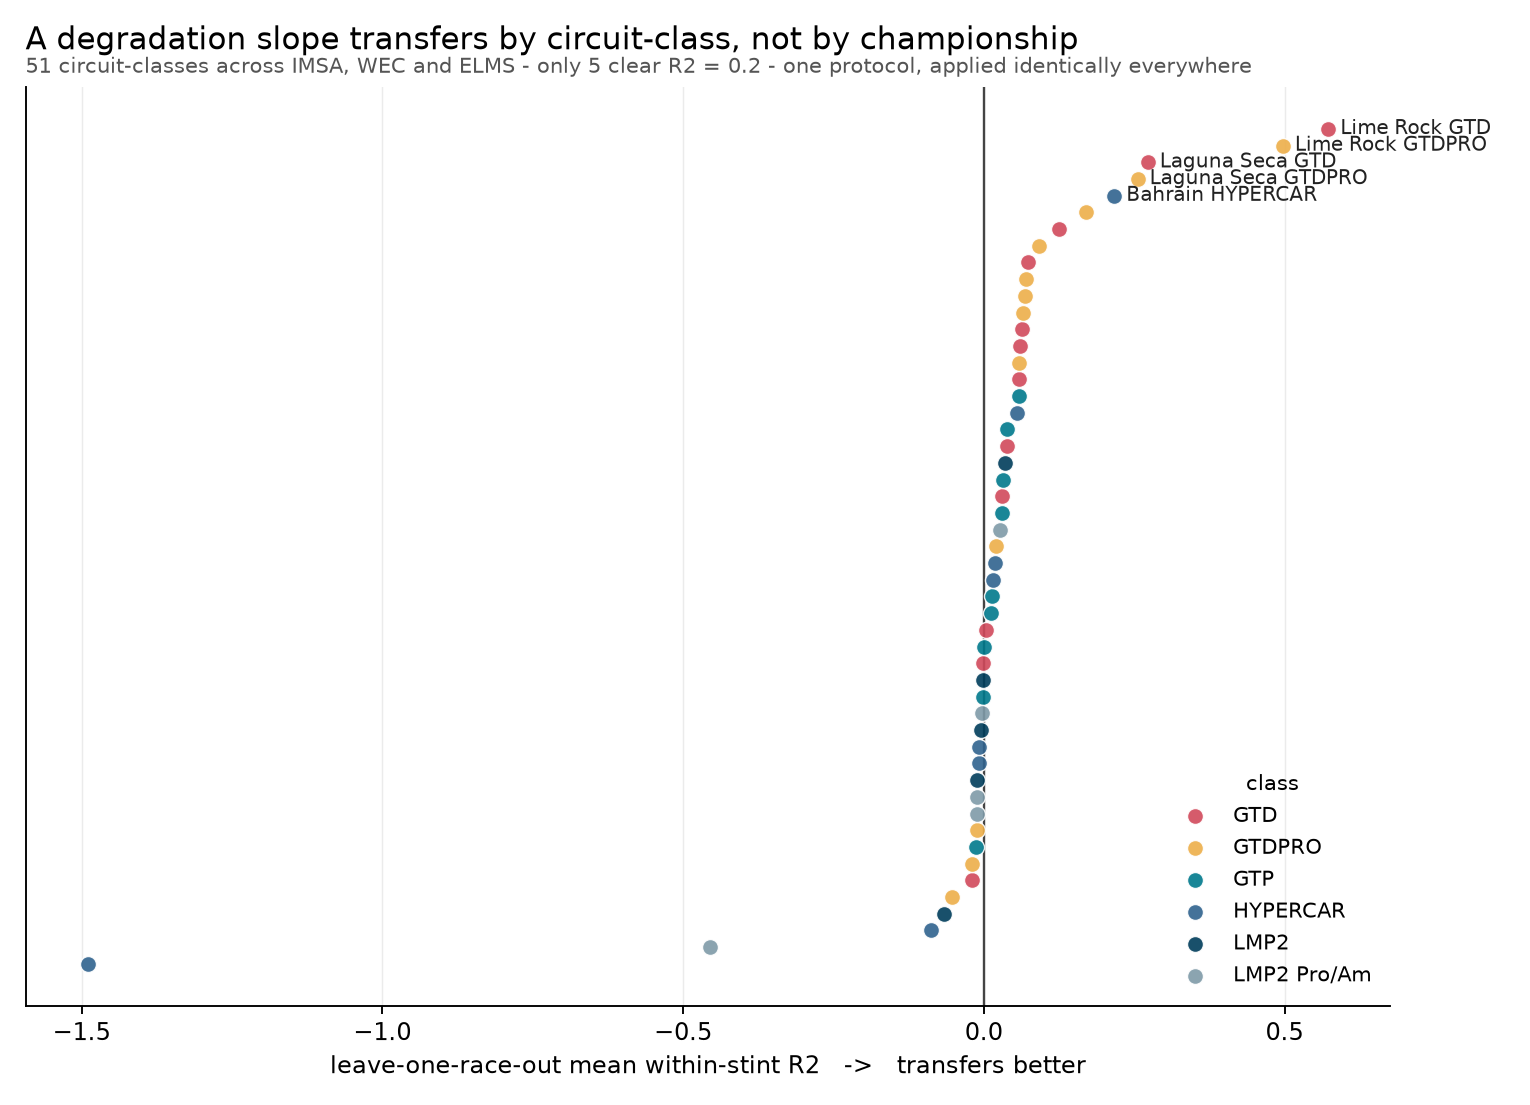
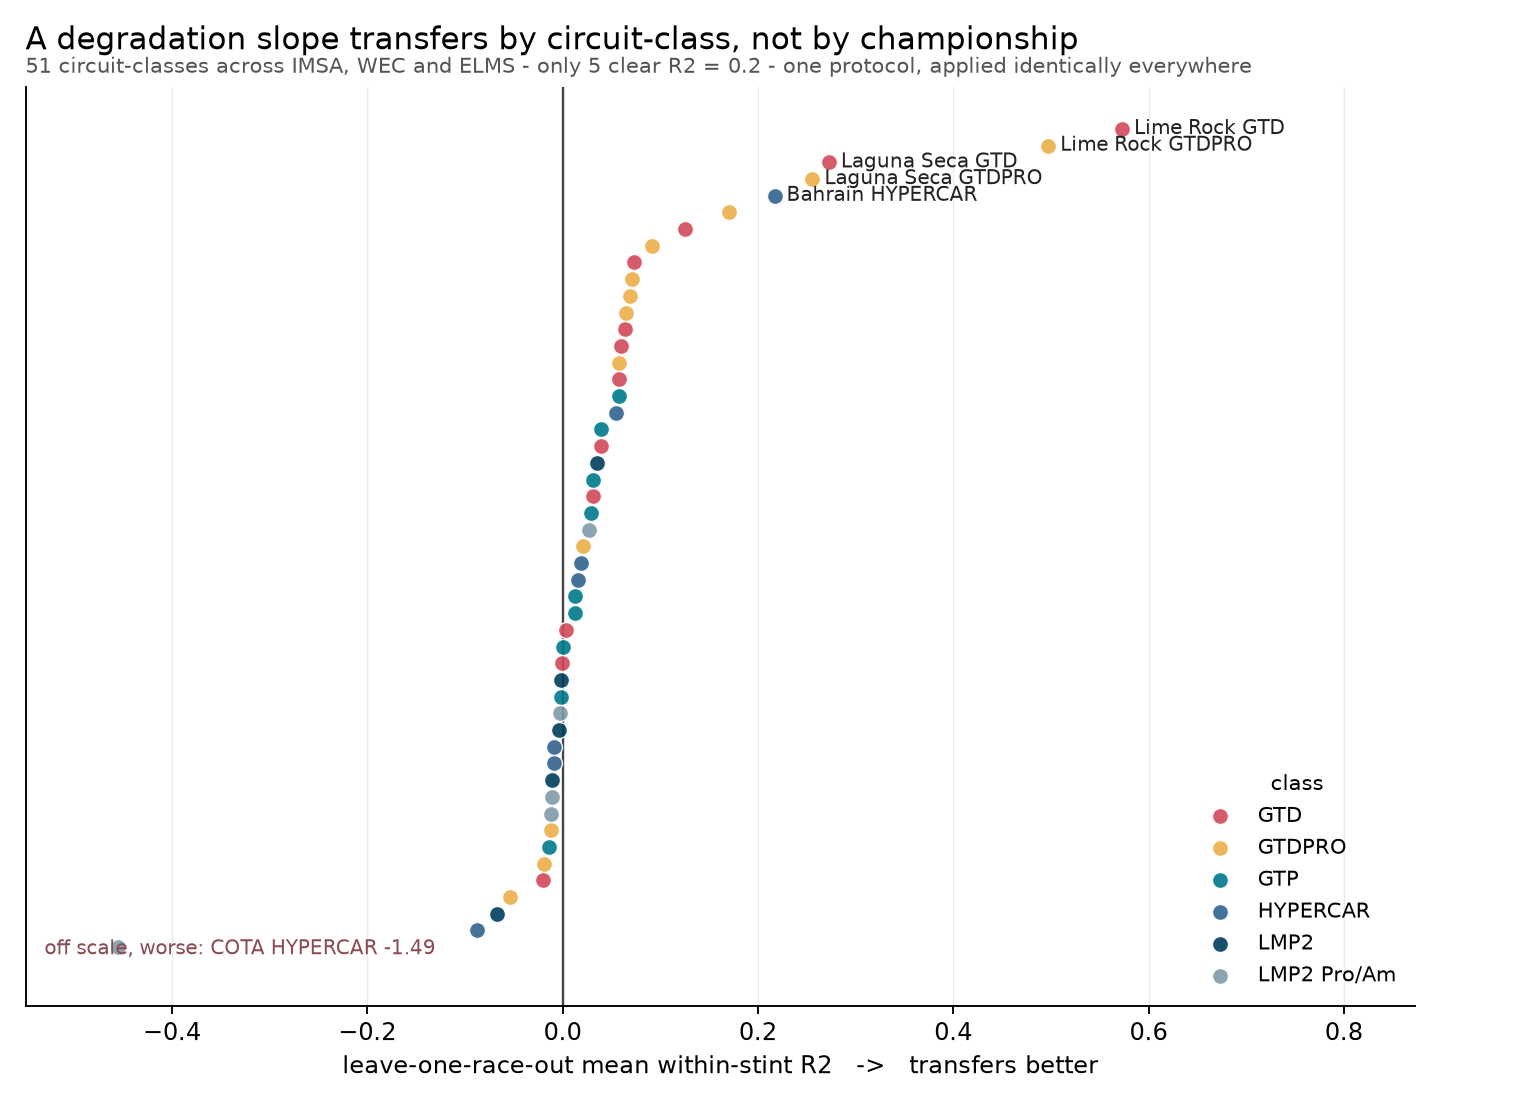
fix(figures): make the two headline figures readable as distributions
R3 drew 632 IMSA decisions as points at one height, so the eye read the extent
and not the density -- a solid bar that said nothing about where the mass sits.
Now a box for the quartiles over a seeded jittered cloud for the sample and the
tail, and the asymmetry the figure exists to show is visible: IMSA and F1 have
their whole interquartile range to the right of zero, ELMS and WEC straddle it.

R1 had the opposite problem. COTA Hypercar at -1.49 is 3x the next-worst and
compressed the other 49 circuit-classes into a tenth of the canvas. The axis is
now clipped with the off-scale point named on the figure -- dropping it silently
would have been a different thing entirely.

diff --git a/scripts/make_headline_figures.py b/scripts/make_headline_figures.py
@@ -30,6 +30,7 @@ import matplotlib  # noqa: E402
 matplotlib.use("Agg")
 
 import matplotlib.pyplot as plt  # noqa: E402
+import numpy as np  # noqa: E402
 import pandas as pd  # noqa: E402
 
 from src.ingestion.config import (  # noqa: E402
@@ -88,6 +89,25 @@ def r1_transfer() -> str:
                 (row.r2_within, row.Index), fontsize=8.5,
                 va="center", color="#222222",
             )
+
+    # Two circuit-classes sit far below the rest (COTA Hypercar at -1.49 is 3x
+    # the next-worst), and on a full-range axis they squeeze all 49 others into
+    # a tenth of the canvas, hiding the structure the figure exists to show.
+    # The axis is clipped and anything outside it is named, because dropping an
+    # inconvenient point without saying so is a different thing entirely.
+    floor = -0.55
+    off_scale = mean[mean["r2_within"] < floor]
+    ax.set_xlim(floor, mean["r2_within"].max() + 0.30)
+    if not off_scale.empty:
+        named = ", ".join(
+            f"{row.event} {row.car_class} {row.r2_within:+.2f}"
+            for row in off_scale.itertuples()
+        )
+        ax.annotate(
+            f"off scale, worse: {named}",
+            (floor, 0), fontsize=8.5, color="#8a4b52",
+            xytext=(8, 2), textcoords="offset points", va="bottom",
+        )
 
     ax.set_yticks([])
     ax.set_xlabel("leave-one-race-out mean within-stint R2   ->   transfers better")
@@ -201,27 +221,43 @@ def r3_audit_bias() -> str:
     ]
     groups.sort(key=lambda pair: pair[1].median())
 
-    fig, ax = plt.subplots(figsize=(10, 5.6))
-    ax.set_xlim(-32, 92)
+    fig, ax = plt.subplots(figsize=(10, 5.8))
+    ax.set_xlim(-34, 98)
+
+    # A strip of points all at one height reads as an extent, not a density:
+    # 632 IMSA decisions drew a solid bar and hid where the mass actually sits.
+    # A box carries the quartiles, and the jittered cloud behind it carries the
+    # sample size and the tail. The jitter is seeded so the figure is stable
+    # across runs -- an unseeded one re-draws differently every time and the
+    # drift check would fail on noise.
+    rng = np.random.default_rng(20260904)
     for position, (label, deltas) in enumerate(groups):
+        colour = "#2b2d42" if label == "F1" else "#00798c"
         ax.scatter(
-            deltas, [position] * len(deltas), s=14, alpha=0.16,
-            color="#2b2d42" if label == "F1" else "#00798c", zorder=2,
+            deltas, position + rng.uniform(-0.26, 0.26, len(deltas)),
+            s=11, alpha=0.30, color=colour, linewidth=0, zorder=2,
         )
-        median = deltas.median()
-        ax.scatter([median], [position], marker="|", s=900, linewidth=2.6,
-                   color="#d1495b", zorder=4)
+        ax.boxplot(
+            [deltas], positions=[position], vert=False, widths=0.52,
+            showfliers=False, medianprops={"color": "#d1495b", "linewidth": 2.4},
+            boxprops={"color": "#333333", "linewidth": 1.1},
+            whiskerprops={"color": "#333333", "linewidth": 1.1},
+            capprops={"color": "#333333", "linewidth": 1.1},
+            zorder=3,
+        )
         # "Later" needs a definition, and it is not delta > 0: the audit calls
         # a disagreement of one lap an agreement, so the same bar is used here.
         later = (deltas > 1).mean() * 100
         ax.annotate(
-            f"median {median:+.0f}    {later:.0f}% later    n = {len(deltas)}",
-            (62, position), fontsize=9, va="center", color="#333333",
+            f"median {deltas.median():+.0f}    {later:.0f}% later    "
+            f"n = {len(deltas)}",
+            (58, position), fontsize=9, va="center", color="#333333",
         )
 
-    ax.axvline(0, color="#444444", linewidth=1.2, zorder=3)
+    ax.axvline(0, color="#444444", linewidth=1.2, zorder=4)
     ax.set_yticks(range(len(groups)))
     ax.set_yticklabels([label for label, _ in groups])
+    ax.set_ylim(-0.6, len(groups) - 0.4)
     ax.set_xticks([-30, -20, -10, 0, 10, 20, 30, 40, 50])
     ax.set_xlabel("model's lap  -  team's lap      (negative = model stops earlier)")
     total = sum(len(deltas) for _, deltas in groups)
